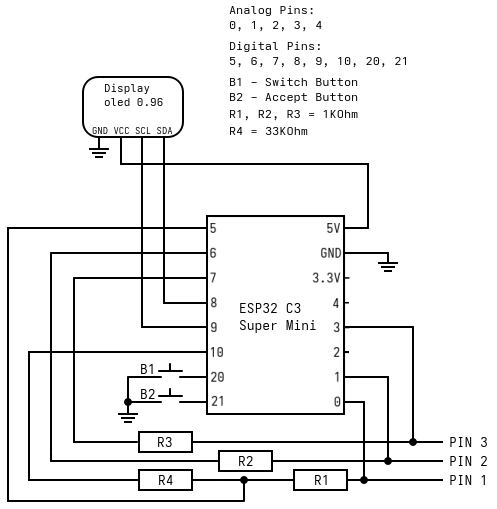
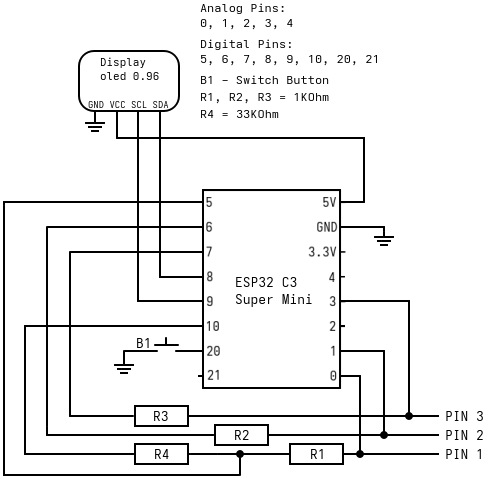
deleting accept button from project

Changed region(s): [[0.0, 0.0, 1.0, 1.0]]

diff --git a/src/main.cpp b/src/main.cpp
@@ -8,9 +8,7 @@
 #include "utilities/display.h"
 
 uint8_t switchButtonPin = 20;
-uint8_t acceptButtonPin = 21;
 Button switchButton;
-Button acceptButton;
 Diode diode;
 Transistor transistor;
 Resistor resistor;
@@ -22,43 +20,27 @@ String text2;
 float VCC = 3.3;
 float fixedVCC = 3.0;
 uint8_t switchMode = 0;
-uint8_t accept = 0;
 unsigned long lastMeasuredTime = 0;
 uint8_t lastSwitchMode = 0;
-uint8_t lastAccept = 0;
 
 void setup()
 {
 	display.begin();
     switchButton.init(switchButtonPin);
-    acceptButton.init(acceptButtonPin);
 }
 
 void loop()
 {
-	lastAccept = accept;
 	switchButton.checkPinButtonPressed(switchMode, 2);
-	acceptButton.checkPinButtonPressed(accept, 1);
 	if (switchMode != lastSwitchMode)
 	{
 		lastSwitchMode = switchMode;
-		accept = 0;
 		Display::displayText(baseComponent::componentAllowedPins(switchMode), "", switchMode, display);
 	}
-	if (accept == 1)
+	if (millis() - lastMeasuredTime > 1000)
 	{
-		if (millis() - lastMeasuredTime > 1000)
-		{
-			lastMeasuredTime = millis();
-			baseComponent::testComponent(switchMode, text1, text2, &transistor, &diode, &resistor, pins, analogPins, VCC, fixedVCC);
-			Display::displayText(text1, text2, switchMode, display);
-		}
-	}
-	else
-	{
-		if (accept == 0 && lastAccept == 1)
-		{
-			Display::displayText(baseComponent::componentAllowedPins(switchMode), "", switchMode, display);
-		}
+		lastMeasuredTime = millis();
+		baseComponent::testComponent(switchMode, text1, text2, &transistor, &diode, &resistor, pins, analogPins, VCC, fixedVCC);
+		Display::displayText(text1, text2, switchMode, display);
 	}
 }

diff --git a/README.md b/README.md
@@ -31,11 +31,9 @@ Device info:
 
   Switch Button switches between 3 modes: Transistor, Diode and Resistor
 
-  Accept Button starts/stops measuring inserted component
-
   pins 1, 2, 3 are for transistor testing
   
-  pins 1, 4 are for diode and resistor testing
+  pins 1, 3 are for diode and resistor testing
 
 some more photos:
 